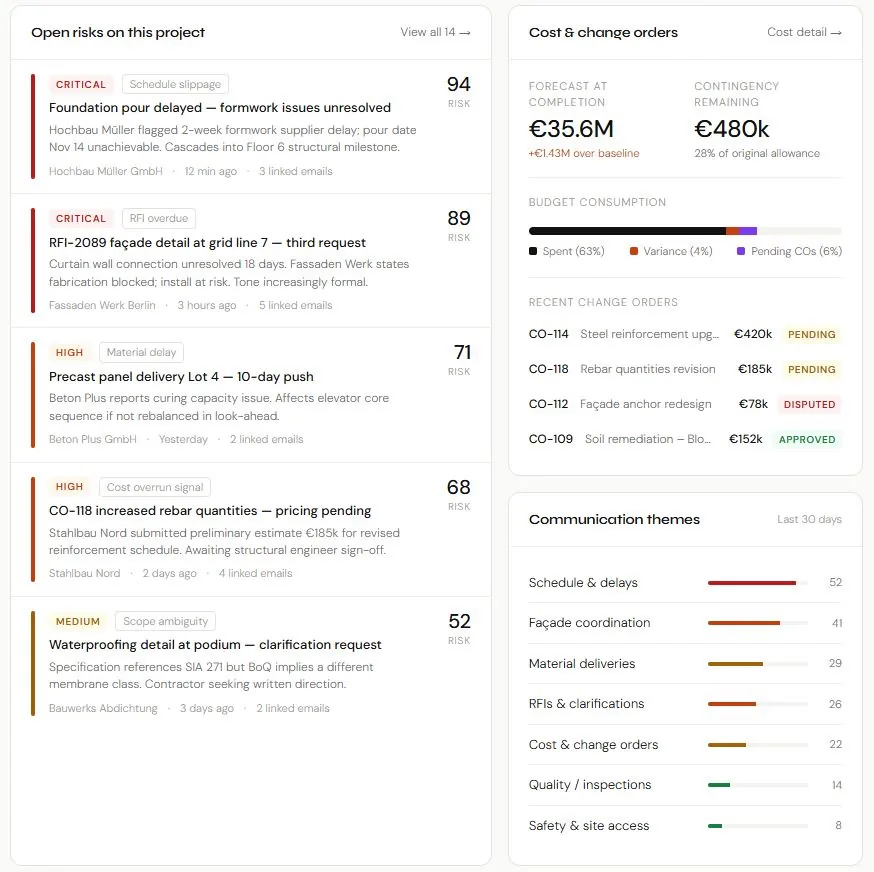
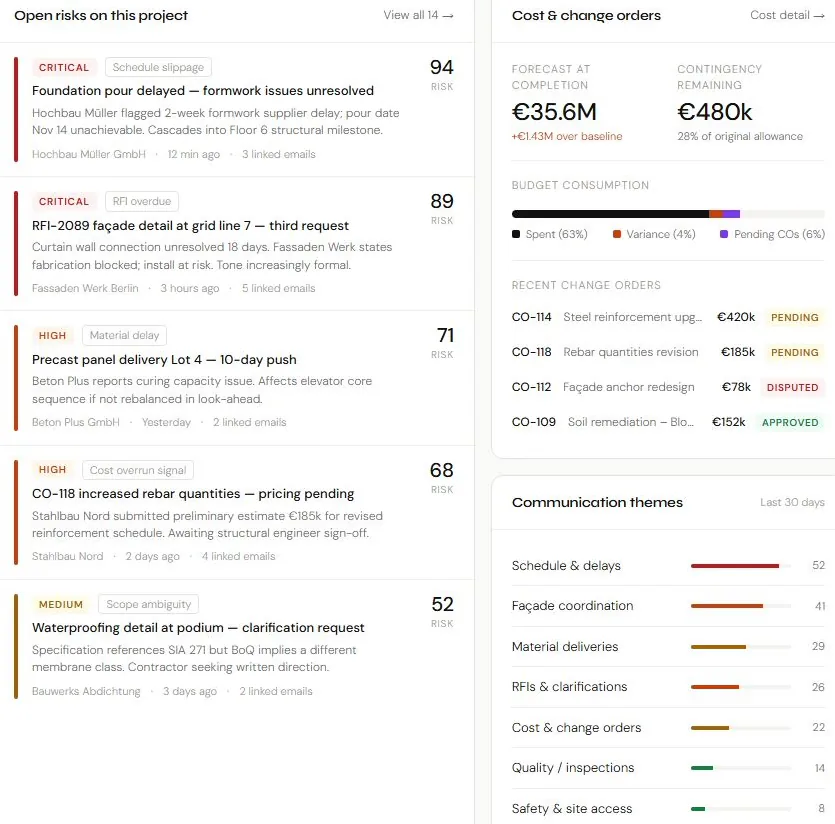
Give the solution panels one frame that every image fills
The panel images were shown at their own proportions inside the frame, so they
appeared at different sizes as you clicked through. Now the frame is 3 by 2 and
each image fills it. 3 by 2 is the median ratio of the 23 the client supplied,
which is the ratio that crops the least across a set spread from 2:3 portrait to
19:10. The frame is identical on all six pages, measured at 521 by 347 on a 1440
viewport for all 23 panels.

A frame alone was not enough. Five of the images arrive on a white sheet with the
subject floating in the middle, the book cover with about a fifth of the file blank
on every side. Those filled the frame with their own margins and still read as
smaller than the rest. build-images.mjs takes a `trim` flag now: it decodes a small
grayscale copy, takes the extent of everything darker than near white, and crops to
it before scaling. The five are marked in the config and their declared dimensions
follow the trimmed files.

Filling a frame means cropping, and a centre crop cut the title off the book, which
is the whole point of that image. So images can carry `focus: top` in the content,
which becomes an object-position on that one image. Six do: the book, the two
dashboards, the analytics view, the pipeline diagram that reads top down, and the
configurator whose panel header sits at the top edge.

The mobile override is gone, since one ratio now serves both layouts.

Verified: 25 pages clean, all four menus reachable, all 23 panels measured on the
[…]

diff --git a/assets/css/site.css b/assets/css/site.css
@@ -1455,29 +1455,30 @@ button {
   display: none;
 }
 
-/* The client supplies one image per tab, and they arrive in every orientation
-   from 2:3 portrait to 19:10. The box is a fixed 4 by 3 so the band does not
-   jump as you click through, and the image is contained inside it rather than
-   cropped, because most of them are screenshots that a crop would slice through.
-   No matte behind it: several carry their own white or black ground, and any
-   fill colour would only show up as a border on some of them and not others. */
+/* One frame for every panel image on every solution page, and each image fills
+   it. 3 by 2 is the median ratio of the 23 the client supplied, which are spread
+   from 2:3 portrait to 19:10, so it is the ratio that crops the least across the
+   whole set. The frame is what keeps the band from changing height as you click
+   through, and filling it is what keeps the images the same size as each other. */
 .tabs__media {
   position: relative;
-  aspect-ratio: 4 / 3;
+  aspect-ratio: 3 / 2;
 }
 
-/* Taken out of flow and pinned to the frame, so a tall image can neither
-   stretch the box past its ratio nor overflow it. Percentage sizing in flow is
-   not enough here: the height the box gets from aspect-ratio is not definite
-   enough for a percentage height to resolve against, and the image falls back
-   to its intrinsic size. No corner radius, because with contain the corners of
-   this element are empty. */
+/* Taken out of flow and pinned to the frame, so a tall image can neither stretch
+   the box past its ratio nor overflow it. Percentage sizing in flow is not enough
+   here: the height the box gets from aspect-ratio is not definite enough for a
+   percentage height to resolve against, and the image falls back to its intrinsic
+   size. Centred by default, which suits the photography. The panels whose meaning
+   sits at the top, interfaces with a heading and the diagram that reads top down,
+   carry `focus: top` in the content and override this per image. */
 .tabs__media img {
   position: absolute;
   inset: 0;
   width: 100%;
   height: 100%;
-  object-fit: contain;
+  object-fit: cover;
+  object-position: center;
 }
 
 .tabs__copy {
@@ -2277,12 +2278,6 @@ button {
     grid-column: 1;
     grid-row: 2;
     grid-template-columns: minmax(0, 1fr);
-  }
-
-  /* Stacked, and the panel now has the full width, so a shallower box keeps the
-     copy from being pushed too far down the page. */
-  .tabs__media {
-    aspect-ratio: 3 / 2;
   }
 
   .page-hero__head,

diff --git a/solutions/product-manufacturers/index.html b/solutions/product-manufacturers/index.html
@@ -163,7 +163,7 @@
         </button>
       </div>
       <div class="tabs__panel" role="tabpanel" id="panel-0" aria-labelledby="tab-0">
-        <figure class="tabs__media"><img class="photo" src="/assets/img/tab-3d-configurator.webp" alt="Configurator for a perforated metal sheet, with the parameter panel and the resulting technical data" width="1024" height="806" loading="lazy" decoding="async"></figure>
+        <figure class="tabs__media"><img class="photo" src="/assets/img/tab-3d-configurator.webp" alt="Configurator for a perforated metal sheet, with the parameter panel and the resulting technical data" width="1024" height="806" style="object-position:top" loading="lazy" decoding="async"></figure>
         <div class="tabs__copy">
           <p class="lede">Interactive 3D configurators that let engineers and architects explore, customize, and specify your products without waiting for a sales call. Customers select dimensions, materials, and options visually and receive technical specifications and pricing on the spot.</p>
           <ul class="tabs__points">
@@ -196,7 +196,7 @@
         </div>
       </div>
       <div class="tabs__panel" role="tabpanel" id="panel-3" aria-labelledby="tab-3" hidden>
-        <figure class="tabs__media"><img class="photo" src="/assets/img/tab-analytics-insights.webp" alt="Analytics dashboard with product views and placements broken down by BIM software and by country" width="1024" height="654" loading="lazy" decoding="async"></figure>
+        <figure class="tabs__media"><img class="photo" src="/assets/img/tab-analytics-insights.webp" alt="Analytics dashboard with product views and placements broken down by BIM software and by country" width="982" height="630" style="object-position:top" loading="lazy" decoding="async"></figure>
         <div class="tabs__copy">
           <p class="lede">Every interaction with your digital tools generates data. Which products get configured most? Where do users drop off? Which BIM objects get downloaded in which markets? We turn this data into actionable insights that inform your product strategy and sales priorities.</p>
           <ul class="tabs__points">

diff --git a/solutions/general-contractors/index.html b/solutions/general-contractors/index.html
@@ -169,7 +169,7 @@
         </div>
       </div>
       <div class="tabs__panel" role="tabpanel" id="panel-1" aria-labelledby="tab-1" hidden>
-        <figure class="tabs__media"><img class="photo" src="/assets/img/tab-decision-support.webp" alt="Dashboard listing the open risks on a project beside its cost, change order and communication figures" width="874" height="872" loading="lazy" decoding="async"></figure>
+        <figure class="tabs__media"><img class="photo" src="/assets/img/tab-decision-support.webp" alt="Dashboard listing the open risks on a project beside its cost, change order and communication figures" width="835" height="824" style="object-position:top" loading="lazy" decoding="async"></figure>
         <div class="tabs__copy">
           <p class="lede">When a risk surfaces, your team gets more than an alert. Every flag comes with the context, the contract reference, and a recommended next step, so the right action is never more than one click away.</p>
           <ul class="tabs__points">
@@ -180,7 +180,7 @@
         </div>
       </div>
       <div class="tabs__panel" role="tabpanel" id="panel-2" aria-labelledby="tab-2" hidden>
-        <figure class="tabs__media"><img class="photo" src="/assets/img/tab-portfolio-memory.webp" alt="Diagram of the risk agent, from the email and document sources through the ingestion pipeline to the API surfaces" width="590" height="844" loading="lazy" decoding="async"></figure>
+        <figure class="tabs__media"><img class="photo" src="/assets/img/tab-portfolio-memory.webp" alt="Diagram of the risk agent, from the email and document sources through the ingestion pipeline to the API surfaces" width="546" height="844" style="object-position:top" loading="lazy" decoding="async"></figure>
         <div class="tabs__copy">
           <p class="lede">Over time, the system builds a comprehensive risk profile for each project. You see which subcontractors generate the most friction, which project phases carry the highest risk, and where patterns repeat across your portfolio.</p>
           <ul class="tabs__points">

diff --git a/solutions/geotechnical-engineers/index.html b/solutions/geotechnical-engineers/index.html
@@ -196,7 +196,7 @@
         </div>
       </div>
       <div class="tabs__panel" role="tabpanel" id="panel-3" aria-labelledby="tab-3" hidden>
-        <figure class="tabs__media"><img class="photo" src="/assets/img/tab-code-compliance.webp" alt="The EA-Pfähle recommendations on piling, the code a foundation design is checked against" width="684" height="1024" loading="lazy" decoding="async"></figure>
+        <figure class="tabs__media"><img class="photo" src="/assets/img/tab-code-compliance.webp" alt="The EA-Pfähle recommendations on piling, the code a foundation design is checked against" width="380" height="722" style="object-position:top" loading="lazy" decoding="async"></figure>
         <div class="tabs__copy">
           <p class="lede">All design calculations follow the EA Pfähle (Recommendations on Piling) and Eurocode 7 with the relevant national annexes. The system applies partial safety factors, checks characteristic and design values, and produces documentation that is ready for submission to the checking engineer.</p>
           <ul class="tabs__points">

diff --git a/solutions/real-estate-developers/index.html b/solutions/real-estate-developers/index.html
@@ -196,7 +196,7 @@
         </div>
       </div>
       <div class="tabs__panel" role="tabpanel" id="panel-3" aria-labelledby="tab-3" hidden>
-        <figure class="tabs__media"><img class="photo" src="/assets/img/tab-monitoring-recalibration.webp" alt="Cost breakdown for a residential scheme above a list of flagged risk exposures" width="530" height="776" loading="lazy" decoding="async"></figure>
+        <figure class="tabs__media"><img class="photo" src="/assets/img/tab-monitoring-recalibration.webp" alt="Cost breakdown for a residential scheme above a list of flagged risk exposures" width="530" height="776" style="object-position:top" loading="lazy" decoding="async"></figure>
         <div class="tabs__copy">
           <p class="lede">Cost estimation does not stop at the feasibility stage. As the project moves through planning and construction, the system continuously compares actual costs against the original estimate. Deviations are flagged early with clear explanations of what changed and why.</p>
           <ul class="tabs__points">

diff --git a/solutions/precast-manufacturers/index.html b/solutions/precast-manufacturers/index.html
@@ -174,7 +174,7 @@
         </div>
       </div>
       <div class="tabs__panel" role="tabpanel" id="panel-1" aria-labelledby="tab-1" hidden>
-        <figure class="tabs__media"><img class="photo" src="/assets/img/tab-drawing-automation.webp" alt="Generated shop drawing of a precast element with its dimensions and connection details" width="1024" height="724" loading="lazy" decoding="async"></figure>
+        <figure class="tabs__media"><img class="photo" src="/assets/img/tab-drawing-automation.webp" alt="Generated shop drawing of a precast element with its dimensions and connection details" width="972" height="648" loading="lazy" decoding="async"></figure>
         <div class="tabs__copy">
           <p class="lede">For each element, the system generates detailed shop drawings including geometry, reinforcement layouts, embedments, and lifting points. Engineers review and approve rather than draw from scratch. Output follows your company&#39;s drawing standards and annotation rules.</p>
           <ul class="tabs__points">

diff --git a/README.md b/README.md
@@ -125,8 +125,16 @@ Current total for `assets/`: about 7.6 MB, of which the hero video is 2.8 MB.
 The click through panels on the six solution pages are named after their tab, both in
 `brand assets/website images/` and as `tab-<tab slug>.webp` in `assets/img`, so a new
 image for a tab needs no lookup: drop it in under the tab's name and encode. They arrive
-in every orientation, so the panel frame is a fixed 4 by 3 and the image is contained
-inside it rather than cropped.
+in every orientation, so the panel frame is a fixed 3 by 2 that each image fills, which
+keeps them all the same size on the page.
+
+Two knobs for that, both optional:
+
+- `trim: true` in `assets.config.mjs` cuts a white sheet away before encoding, for
+  images where the subject floats in the middle of the file. Without it those fill the
+  frame with their own margins and look smaller than their neighbours.
+- `focus: top` on an image in the content moves the crop, for a screenshot whose heading
+  carries the meaning or a diagram that reads top down. Default is centred.
 
 ## Review tools
 

diff --git a/content/solutions/general-contractors.md b/content/solutions/general-contractors.md
@@ -46,8 +46,9 @@ blocks:
         image:
           src: /assets/img/tab-decision-support.webp
           alt: Dashboard listing the open risks on a project beside its cost, change order and communication figures
-          width: 874
-          height: 872
+          width: 835
+          height: 824
+          focus: top
       - label: Portfolio Memory
         body: >-
           Over time, the system builds a comprehensive risk profile for each project.
@@ -61,8 +62,9 @@ blocks:
         image:
           src: /assets/img/tab-portfolio-memory.webp
           alt: Diagram of the risk agent, from the email and document sources through the ingestion pipeline to the API surfaces
-          width: 590
+          width: 546
           height: 844
+          focus: top
 
   - type: showcase
     tone: void

diff --git a/content/solutions/product-manufacturers.md b/content/solutions/product-manufacturers.md
@@ -35,6 +35,7 @@ blocks:
           alt: Configurator for a perforated metal sheet, with the parameter panel and the resulting technical data
           width: 1024
           height: 806
+          focus: top
       - label: BIM Implementation
         body: >-
           BIM objects and plugin integrations that place your products directly inside the
@@ -78,8 +79,9 @@ blocks:
         image:
           src: /assets/img/tab-analytics-insights.webp
           alt: Analytics dashboard with product views and placements broken down by BIM software and by country
-          width: 1024
-          height: 654
+          width: 982
+          height: 630
+          focus: top
 
   - type: showcase
     tone: void

diff --git a/content/solutions/precast-manufacturers.md b/content/solutions/precast-manufacturers.md
@@ -48,8 +48,8 @@ blocks:
         image:
           src: /assets/img/tab-drawing-automation.webp
           alt: Generated shop drawing of a precast element with its dimensions and connection details
-          width: 1024
-          height: 724
+          width: 972
+          height: 648
       - label: Machine File Export
         body: >-
           Approved elements are exported directly as machine readable files in the

diff --git a/content/solutions/geotechnical-engineers.md b/content/solutions/geotechnical-engineers.md
@@ -78,8 +78,9 @@ blocks:
         image:
           src: /assets/img/tab-code-compliance.webp
           alt: The EA-Pfähle recommendations on piling, the code a foundation design is checked against
-          width: 684
-          height: 1024
+          width: 380
+          height: 722
+          focus: top
 
   - type: showcase
     tone: void

diff --git a/content/solutions/real-estate-developers.md b/content/solutions/real-estate-developers.md
@@ -81,6 +81,7 @@ blocks:
           alt: Cost breakdown for a residential scheme above a list of flagged risk exposures
           width: 530
           height: 776
+          focus: top
 
   - type: showcase
     tone: void
